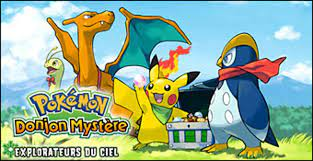
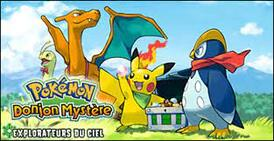
ammélioration css donjon mystére

diff --git a/thibault.html b/thibault.html
@@ -7,22 +7,23 @@
     <link rel="stylesheet" href="main_style.css"/>
 </head>
 <body>
+    <div class="fond">
     <header>
         <input type="button" onclick="" value="style"/>
     </header>
 
     <div class="contenaire1">
         <div class="logo">
-            <img src="donjon mystère/media/ombre_logo.png"/>
-            <img src="donjon mystère/media/temps_logo.png"/>
-            <img src="donjon mystère/media/ciel_Logo.png"/>
+            <img class="logo1" src="donjon mystère/media/ombre_logo.png"/>
+            <img class="logo2" src="donjon mystère/media/temps_logo.png"/>
+            <img class="logo3" src="donjon mystère/media/ciel_Logo.png"/>
         </div>
 
         <div class="description">
             <h2>pokemon donjon mystére : explorateur de l'ombre, du temps et du ciel</h2>
-            <div>
+            <div class="part1">
                 <img src="donjon mystère/media/affiche.jpeg"/>
-                <div>
+                <div class="part1_1">
                     les pokemons donjons mystére sont des jeux solo, où le joueur incarne un humain métamorphosé en pokemon qui vas explorer des donjons pour remplire des quêtes et des missions accompagné d'accolyte. 
                     <br/>
                     le systéme de jeux comprend deux phase:
@@ -32,26 +33,29 @@
                     </ul>
                 </div>
             </div>
-            <div>
-                <div>
+            <div class="part2">
+                <div class="part2_1">
                     les jeux explorateur de l'ombre et explorateur du temps sont des jeux similaires, les différence de contenue ne sont donc que minime entre eux.
                     <br/>
                     explorateur du ciel, quand à lui, rajoute du contenue par exemple l'apparition de shaymine. 
                 </div>
+                <div class="part2_2">
                 <img src="donjon mystère/media/in_game3.jpg"/>
                 <img src="donjon mystère/media/in_game1.jpeg"/>
                 <img src="donjon mystère/media/in_game2.jpeg"/>
+                </div>
             </div>
         </div>
     </div>
 
     <div class="contenaire2">
-        <img src="donjon mystère/media/avis.jpg"/>
+        <img class="part3" src="donjon mystère/media/avis.jpg"/>
         <div>mon avis personnel : j'ai adoré ce jeu qui est mon premier jeu pokemon et mon premier jeu DS</div>
     </div>
 
     <footer>
         mension légale qu'on a pas
     </footer>
+</div>
 </body>
 </html>

diff --git a/donjon mystère/css/style.css b/donjon mystère/css/style.css
@@ -8,9 +8,96 @@ body
 
 }
 
+.fond
+{
+    background-color: white;
+}
+
 .logo
 {
+    display: flex;
+    flex-direction: row;
+    justify-content: center;
+    
+}
+
+.logo1
+{
+    padding-bottom: 5%;
+}
+
+.logo2
+{
+    padding-top: 2.5%;
+    padding-bottom: 2.5%;
+    margin-left: 2%;
+    margin-right: 2%;
+}
+
+.logo3
+{
+    padding-top: 5%;
+}
+
+.description
+{
+    margin-right: 5%;
+    margin-left: 5%;
+    display: flex;
+    flex-direction: column;
+}
+
+.part1
+{
+    display: flex;
     flex-direction: row;
     justify-content: space-around;
-    
+    column-count: 2;
+}
+
+.part1_1
+{
+    margin-left: 1%;
+}
+
+.part2
+{
+    margin-top: 3%;
+    display: flex;
+    flex-flow: column;
+}
+
+.part2_1
+{
+    margin-bottom: 2%;
+    display: flex;
+    justify-content: center;
+}
+
+.part2_2
+{
+    display: flex;
+    justify-content: space-around;
+}
+
+.contenaire2
+{
+    margin-top: 10%;
+    display: flex;
+    flex-direction: column;
+    justify-content: center;
+    align-items: center;
+}
+
+.part3
+{
+    display: flex;
+    margin-bottom: 2%;
+}
+
+footer
+{
+    margin-top: 10%;
+    display: flex;
+    justify-content: center;
 }
